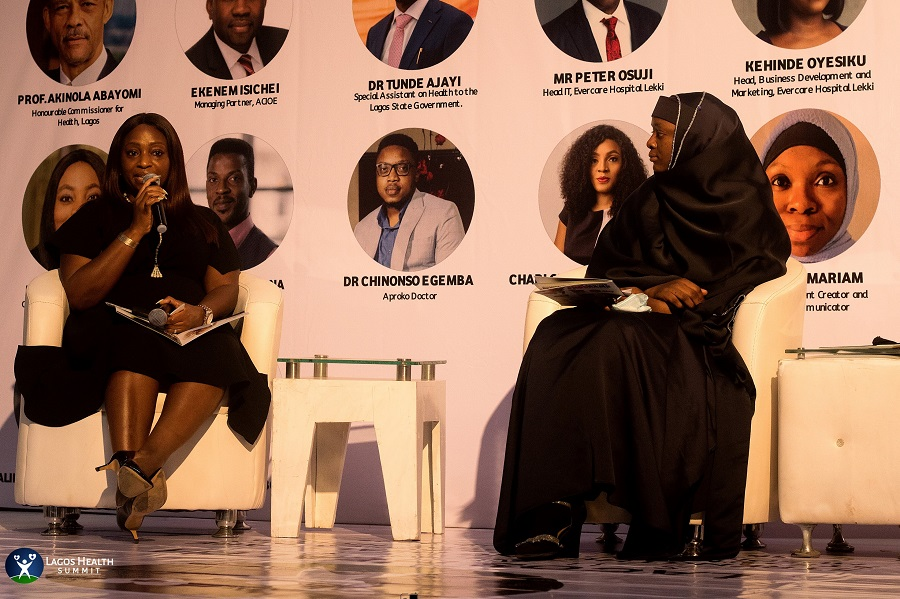
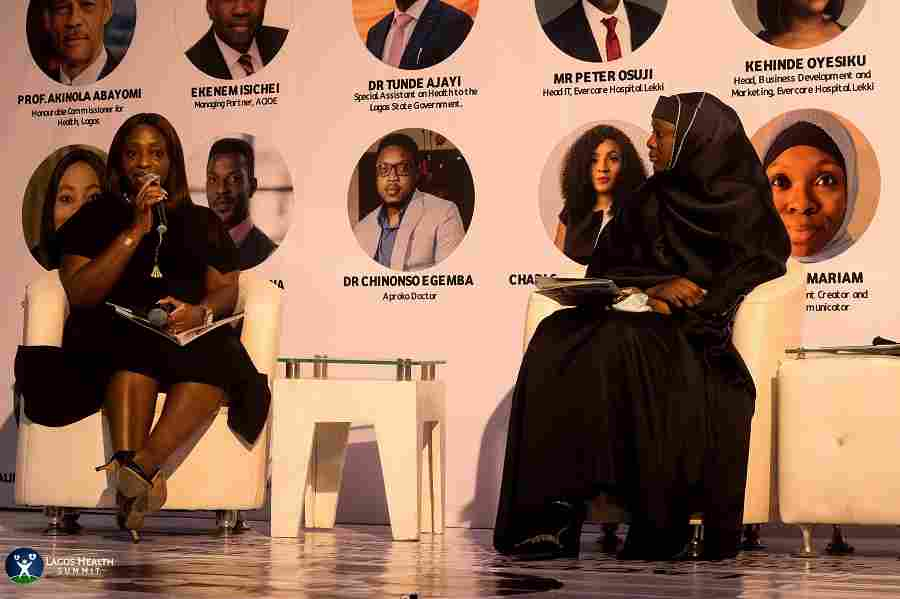
Optimized images to improve performance

diff --git a/index.html b/index.html
@@ -120,7 +120,7 @@
     <section class="content-section no-spacing new-counter">
       <div class="container">
         <div class="row">
-          <div class="col-lg-3 col-md-3 col-sm-3">
+          <div class="col-lg-3 col-md-3">
             <div class="counter-box">
               <span
                 class="odometer id-blue"
@@ -132,7 +132,7 @@
               <h6 class="id-blue">EVENT</h6>
             </div>
           </div>
-          <div class="col-lg-3 col-md-3 col-sm-3">
+          <div class="col-lg-3 col-md-3">
             <div class="counter-box">
               <span
                 class="odometer id-blue"
@@ -144,7 +144,7 @@
               <h6 class="id-blue">SUMMITS</h6>
             </div>
           </div>
-          <div class="col-lg-3 col-md-3 col-sm-3">
+          <div class="col-lg-3 col-md-3">
             <div class="counter-box">
               <span
                 class="odometer id-blue"
@@ -157,7 +157,7 @@
               <h6 class="id-blue">ORGANIZATIONS</h6>
             </div>
           </div>
-          <div class="col-lg-3 col-md-3 col-sm-3">
+          <div class="col-lg-3 col-md-3">
             <div class="counter-box">
               <span
                 class="odometer id-blue"

diff --git a/css/style.css b/css/style.css
@@ -1232,7 +1232,7 @@ h3{
   border: 1px solid #fff;
 } */
 .new-counter .counter-box {
-  width: 80%;
+  width: 100%;
   height: 80px;
   display: block;
   padding: 5px;
